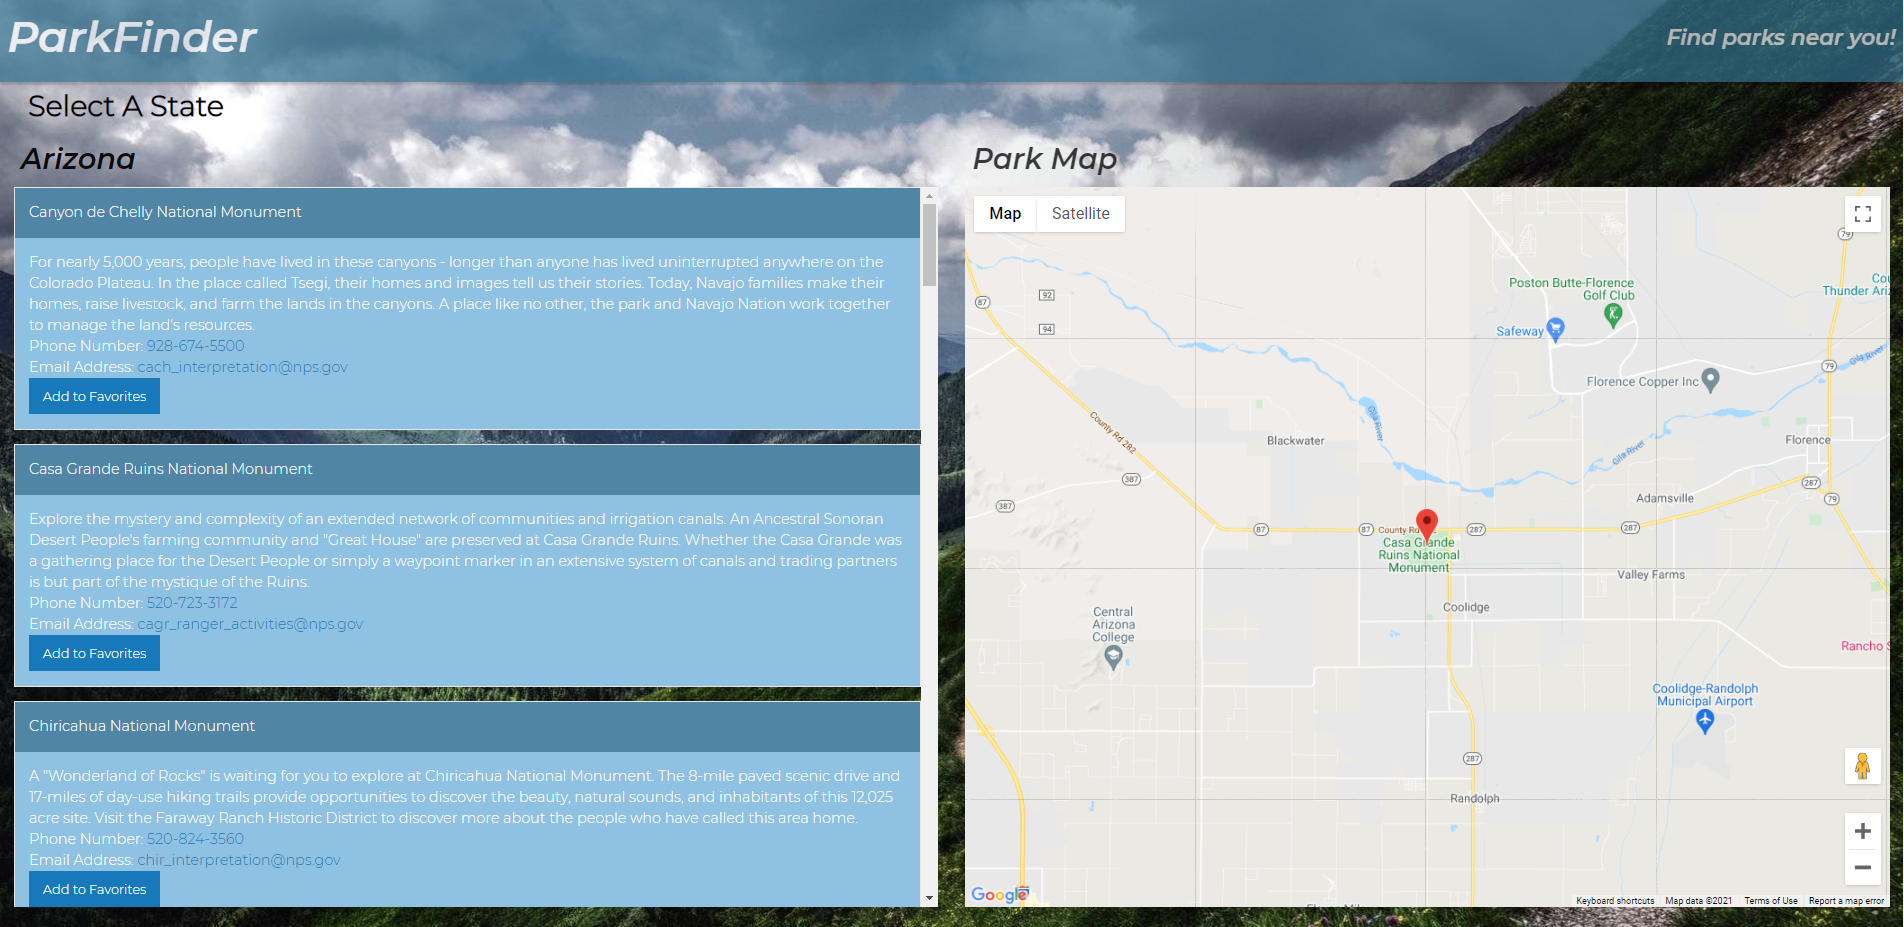
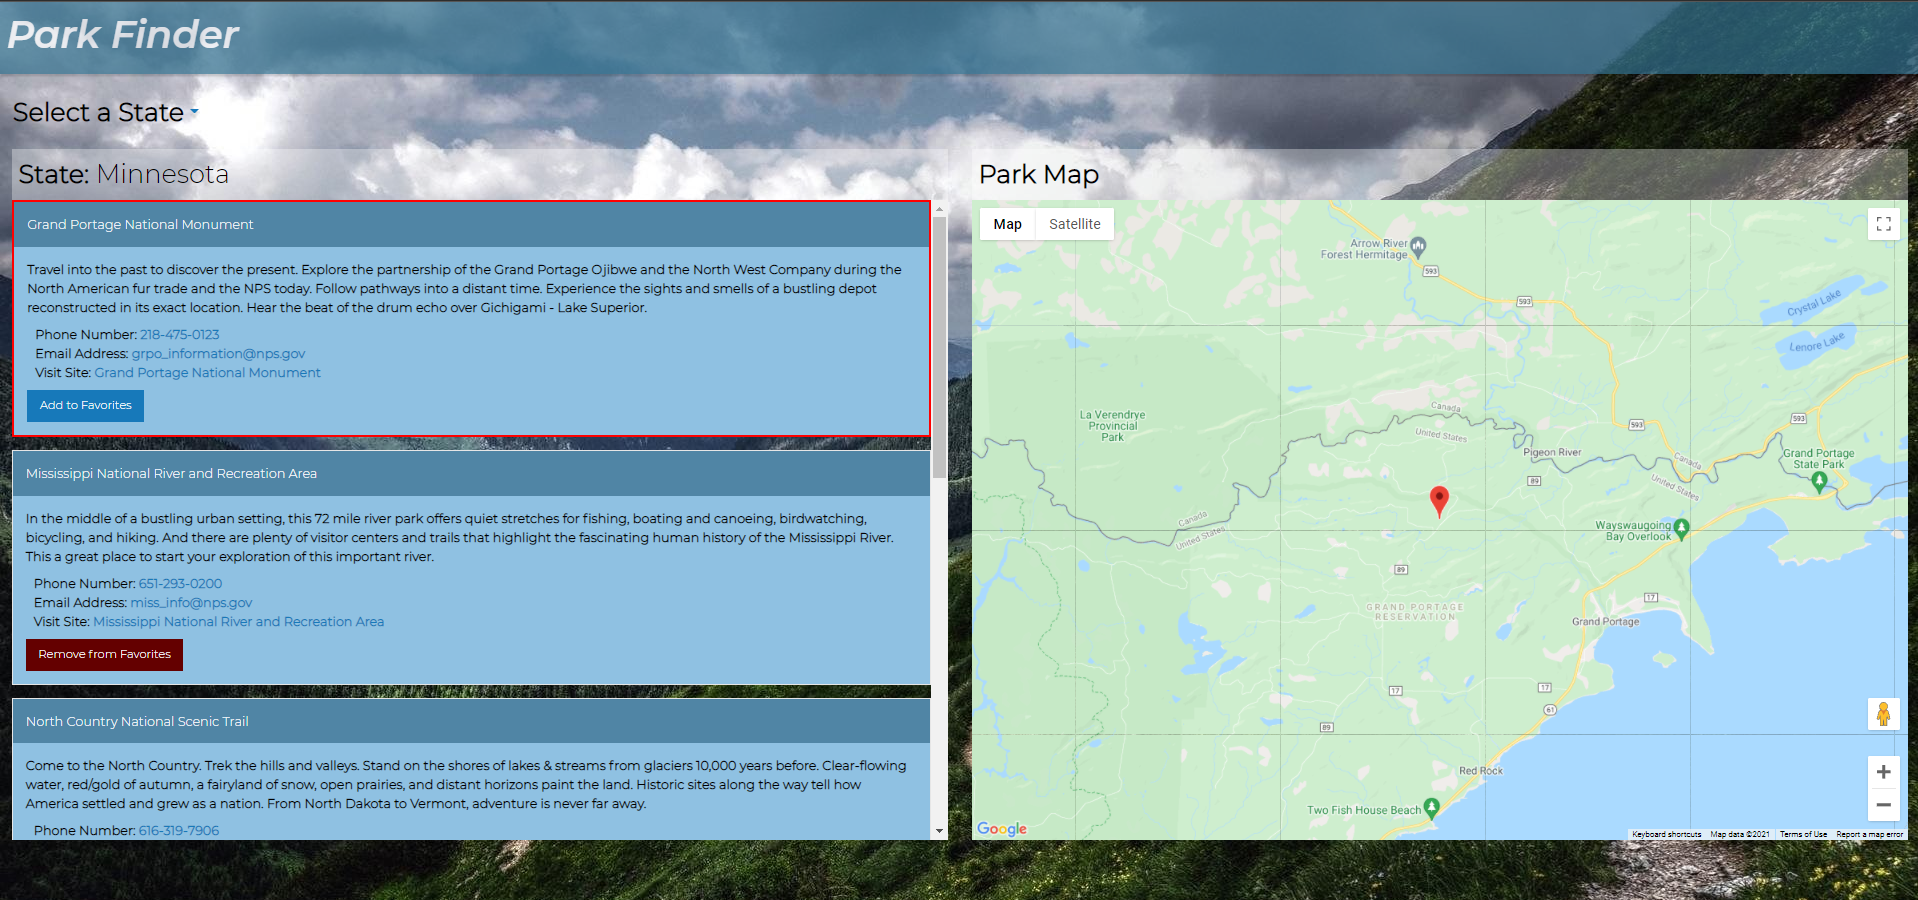
Added red border to selected park
Adjusted favorites button to add remove functionality

Updated readme with more precise instructions for use

diff --git a/assets/js/script.js b/assets/js/script.js
@@ -191,6 +191,7 @@ var displayParks = function () {
     parkCardCell.className = "cell"
     parkCardCell.id = "state-cell"
     parkCard.className = "card";
+    parkCard.setAttribute("data-park-id", park.id);
     parkCardHeader.id = park.id;
     parkCardContent.id = park.id;
     parkCardHeader.className = "card-divider";
@@ -294,9 +295,15 @@ stateSelectionEl.addEventListener("click", function (event) {
   };
 });
 
-
+var currentSelection = null;
 document.addEventListener('click', function (e) {
   if (e.target.className == 'card-section' || e.target.className == 'card-divider' || e.target.className == 'contactInfo') {
+    if (document.querySelector(".selected-border")) {
+      document.querySelector(".selected-border").classList.remove("selected-border");
+    }
+    var currentSelection = document.querySelector('div[data-park-id="' + e.target.id + '"]');
+    currentSelection.classList.add("selected-border");
+
     for (var i = 0; i < parksArray.length; i++) {
       if (parksArray[i].id == e.target.id) {
         var parkLong = parseFloat(parksArray[i].longitude, 10);

diff --git a/assets/css/app.css b/assets/css/app.css
@@ -168,6 +168,10 @@ h1 {
     background-color: rgb(100,0,0);
 }
 
+.selected-border {
+    border: 3px solid red;
+}
+
 
 @media screen and (max-width: 39.9375em) {
 

diff --git a/README.md b/README.md
@@ -1,16 +1,35 @@
 # Park Finder
 
 ## Description
-A site where you can pull up state parks, organized by state. Then, after selecting a park, you can map it out!
+A site where you can pull up state parks, organized by state. Then, after selecting a park, you can map it out, and keep a favorites list.
+
+This project utilizes two APIs. The first is the National Park Service (NPS) API to get park information. The second is the Google Maps API to plot the parks on a map.
+
+Additionally, this uses the Foundation CSS Framework.
 
 ## Usage
-1. Hover over "Select a State"
-2. Select which state you wish to see parks for
-3. Once selected, you are presented with a list of parks.
-4. Click on any park, and a map will generate.
+- To load a State's parks:
+    1. Hover over "Select a State"
+    2. Find and click on the state you wish.
+    3. That states parks will be listed on the left, with the top selected and mapped out on the right.
 
-- To add to favorites, click the "Add to Favorites" button on the park's card
-- To load favorites, select Favorites from the Selection dropdown
+- To map out a park:
+    1. Locate the park you wish to map out
+    2. Click anywhere on that park's card.
+    3. A red border is displayed on the park's card indicating selection and the map is updated to show the park's location.
+
+- To add a park to your favorites list:
+    1. Find the desired park.
+    2. Click on the "Add to Favorites" button on that park's card.
+
+- To remove a park from your favorites list:
+    1. Locate the favorited park by state, or by your favorites list.
+    2. Click on the "Remove from Favorites" button on that card.
+
+- To view your favorites:
+    1. Hover over "Select a State"
+    2. Select the "Favorites" option
+    3. Your favorited parks are displayed.
 
 ## Authors
 - Elliott Kvamme
